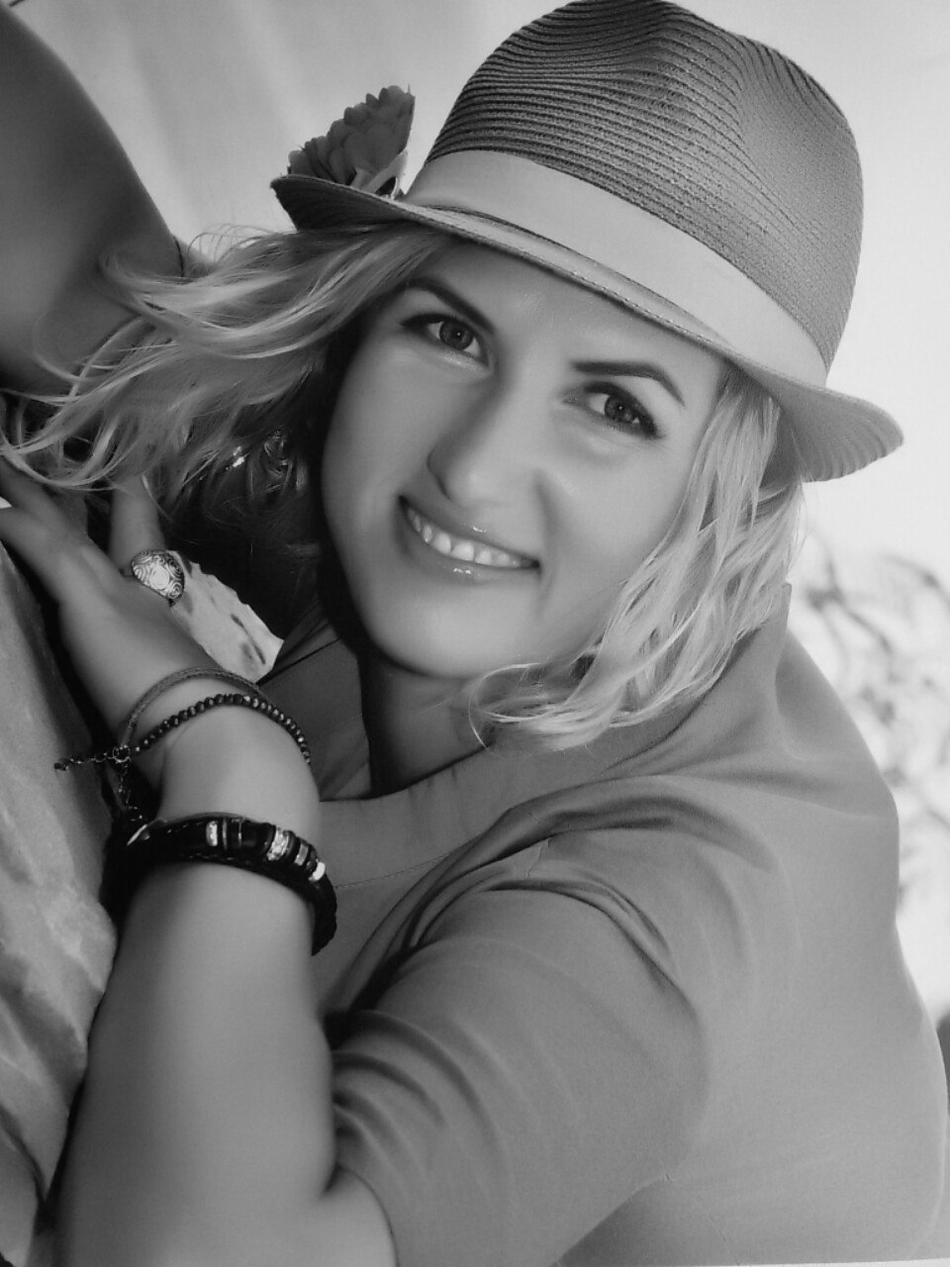
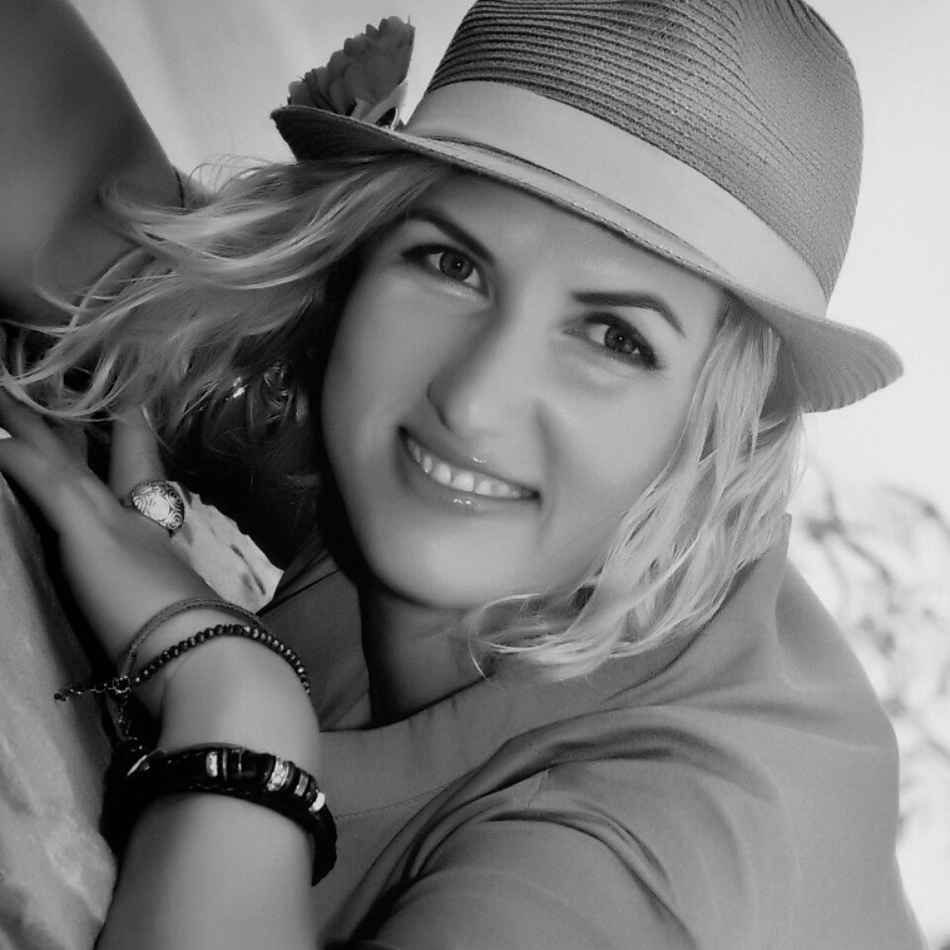
Фотки и стилизация отзывов

diff --git a/wp-content/themes/zernafest/css/main.css b/wp-content/themes/zernafest/css/main.css
@@ -3600,8 +3600,8 @@ p {
 }
 
 .rewiews__img {
-  width: 100%;
-  height: 550px;
+  width: 45vw;
+  height: 45vw;
   overflow: hidden;
   border-radius: 5px; 
 }
@@ -3612,8 +3612,8 @@ p {
 }
 
 .rewiews__big-img {
-  width: 100%;
-  height: 550px;
+  width: 45vw;
+  height: 45vw;
   -o-object-fit: cover;
   object-fit: cover; 
 }
@@ -3650,7 +3650,7 @@ p {
 }
 
 .reviews__slide {
-  height: 70px;
+  /*height: 70px;*/
   width: 18%;
   margin: 20px 5px;
   overflow: hidden;

diff --git a/wp-content/themes/zernafest/index.php b/wp-content/themes/zernafest/index.php
@@ -1086,12 +1086,12 @@
   </div>
   <div class="reviews__block">
     <div class="reviews__img-block">
-      <div class="rewiews__img"><img class="rewiews__big-img" alt="большой слайд" src="<?php echo get_template_directory_uri(); ?>/img/rewiews/review_3.jpeg">
+      <div class="rewiews__img"><img class="rewiews__big-img" alt="большой слайд" src="<?php echo get_template_directory_uri(); ?>/img/rewiews/review_3.jpg">
         <div class="rewiews__arrow-left"></div>
         <div class="rewiews__arrow-right"></div>
       </div>
       <div class="reviews__slider">
-        <div class="reviews__slide"><img class="reviews__slide-img" alt="" src="<?php echo get_template_directory_uri(); ?>/img/rewiews/review_3.jpeg">
+        <div class="reviews__slide"><img class="reviews__slide-img" alt="" src="<?php echo get_template_directory_uri(); ?>/img/rewiews/review_3.jpg">
           <h3 class="reviews__slide-name">Андрей и Екатерина Векшины</h3>
           <div class="reviews__slide-position">г. Горячий Ключ</div>
           <div class="reviews__slide-comment">Фестиваль гуманной педагогики отличается от всего, что мы видели и где побывали раньше. За 5 дней мы наполнились детским смехом, юношеской рассудительностью и родительской любовью. Удивительно было наблюдать как размышляют и действуют ребята в непринужденной атмосфере доверия, которая царит на фестивале. Пожалуй, самым любимым действием для нас были открытые встречи, на которых дети со сцены рассказывали взрослым о своих переживаниях и о том как они видят жизнь. Огромная благодарность учителям и педагогам, которые делятся своей мудростью и любовью к детям на протяжении фестиваля. Мы зарядились на весь год светлыми эмоциями и вдохновением. С нетерпением ждём новой встречи с уже такими родными участниками и организаторами фестиваля.</div>
@@ -1101,22 +1101,22 @@
           <div class="reviews__slide-position">г. Минск</div>
           <div class="reviews__slide-comment">Фестиваль многому научил меня! Помог взглянуть на привычные вещи новыми глазами. Рассказывая о воспитании детей, лекторы помогли мне лучше понять себя и то, какими красивыми и созидательными могут быть отношения с детьми и также со взрослыми. Лекторы фестиваля очень щедрые люди. И есть ощущение, что просто находясь рядом с ними, становишься лучше. Наполнение фестиваля и его атмосфера - это хорошая почва для раскрытия, познания, роста гармоничной личности. Желаю всем поучаствовать в этом Празднике!</div>
         </div>
-        <div class="reviews__slide"><img class="reviews__slide-img" alt="" src="<?php echo get_template_directory_uri(); ?>/img/rewiews/review_5.jpeg">
+        <div class="reviews__slide"><img class="reviews__slide-img" alt="" src="<?php echo get_template_directory_uri(); ?>/img/rewiews/review_5.jpg">
           <h3 class="reviews__slide-name">Настя Краславская</h3>
           <div class="reviews__slide-position">г. Ростов-на-Дону</div>
           <div class="reviews__slide-comment">На осенних каникулах я была на фестивале в Подмосковье. Он был просто необыкновенный! Большая благодарность всем организаторам и почётным гостям!  Это четвертый фестиваль гуманной педагогики, который носит название "Фейерверк уроков жизни".И оно полностью соответствует фестивалю! У меня здесь было много важных реализаций.  На фестивале  были замечательные  учителя - Шалва Амонашвили, Паата Амонашвили, Марина Таргакова, Олег Гадецкий, Сергей Аваков со своей семьёй, Алексей Бабаянц, Игорь Киршин, Рами Блект, мать более 1050 детей - матушка Синдутай и другие невероятные  личности. И самое удивительное - то, что каждый  может с ними открыто общаться! Здесь я познакомилась с детским, молодёжным объединением ,,Молодая гвардия". Они очень искренние, радостные и классные ребята! Когда видишь их - на лице появляется улыбка, появляется радость, которой хочется делиться со всеми. Дорогие Гатам, Айдар, Максим, Клим, Лера, Юля, Лиза, Ангелина, Аня, Мари спасибо вам большое! Теперь у меня есть ещё большее вдохновение и радость каждому дню.</div>
         </div>
-        <div class="reviews__slide"><img class="reviews__slide-img" alt="" src="<?php echo get_template_directory_uri(); ?>/img/rewiews/review_21.png">
+        <div class="reviews__slide"><img class="reviews__slide-img" alt="" src="<?php echo get_template_directory_uri(); ?>/img/rewiews/review_21.jpg">
           <h3 class="reviews__slide-name">Артем Мельник</h3>
           <div class="reviews__slide-position"> </div>
           <div class="reviews__slide-comment">Фест был веселый, хотя я ни с кем не общался почти, классно проводили время вместе, были интересные лекции. Получил много полезного, как на лекциях, так и в свободное время. Особенно хочется отметить:Сабину, Данила, Артемку, Бориса. Спасибо за эти дни!!! Советую всем приехать на этот фест еще раз в след. году, думаю будет еще круче... Мб приглашу друзей!! Всем спасибо!!</div>
         </div>
-        <div class="reviews__slide"><img class="reviews__slide-img" alt="" src="<?php echo get_template_directory_uri(); ?>/img/rewiews/review_1.jpeg">
+        <div class="reviews__slide"><img class="reviews__slide-img" alt="" src="<?php echo get_template_directory_uri(); ?>/img/rewiews/review_1.jpg">
           <h3 class="reviews__slide-name">Наталья и Константин Валеевы</h3>
           <div class="reviews__slide-position">г. Кременная</div>
           <div class="reviews__slide-comment">Мы с семьей были на фестивале несколько раз, и это очень сильно повлияло на нашу жизнь! Я чувствовала, что это именно то место и те процессы, в которых я хотела бы находиться. И так много позитивной, творческой энергии! Знаний, поражающих своей глубиной! Добрых лиц добрых людей! Своих внутренних открытий! И ДЕТИ, которые счастливы!!! Это чудесно!!! Я обязательно постараюсь приехать и в этом году на фестиваль.</div>
         </div>
-        <div class="reviews__slide"><img class="reviews__slide-img" alt="" src="<?php echo get_template_directory_uri(); ?>/img/rewiews/review_4.jpeg">
+        <div class="reviews__slide"><img class="reviews__slide-img" alt="" src="<?php echo get_template_directory_uri(); ?>/img/rewiews/review_4.jpg">
           <h3 class="reviews__slide-name">Владимир и Наталья Морозовы</h3>
           <div class="reviews__slide-position">г. Минск</div>
           <div class="reviews__slide-comment">Фестиваль гуманной педагогики - это удивительное место, наполненное знаниями,  радостью и друзьями. Уже на протяжении нескольких лет мы приезжаем на фестиваль и чувствуем, что наши сердца меняются. Соприкасаясь с Учителями, мастерами и лекторами фестиваля мы получаем большой практический опыт, который сразу влияет на нас. В прошлом году фестиваль помог нам остановиться и увидеть себя, как родителей со стороны. А также по-настоящему увидеть нашего сына. Однажды вечером, после лекции, уложив сына спать, мы лежали рядом с ним, смотрели на него сладкого, спящего, и задали себе вопросы: «А что он скажет о своем детстве, когда вырастет? Скажет ли он, что был счастлив? Достаточно ли ему было нашего внимания или он не видел нас, пока мы были заняты «очень важными» делами?». И благодаря всем Учителям на фестивале, мы поняли, что нельзя разделять «нас или наше дело» и «ребенка», а быть вместе в этом удивительном процессе жизни. И нужно обязательно включать в этот процесс ребенка, наполняя жизнь семьи радостью, простыми смешными моментами, сокровенными разговорами, которые запомнит сердце ребенка, семейными прогулками к реке, добрыми подарками, встречей гостей, неожиданными сладостями, совместной учебой, а также верой в Добро и Свет. Спасибо Фестивалю за это глубокое осознание, которое делает нашу семью счастливее.</div>
@@ -1126,12 +1126,12 @@
           <div class="reviews__slide-position"> </div>
           <div class="reviews__slide-comment">Все фестивали, посвященные гуманной педагогике, принципиальным проводником которых является Шалва Александрович Амонашвили, представляют собой удивительный сказочный мир. Эти события собирают не только педагогов со всей России и многих других стран, но и людей, неравнодушных к современному состоянию педагогики. В выступлениях самого Ш. А. Амонашвили, Марины Таргаковой, Марины Шишовой и многих других педагогов-экспертов отражены потенциальные возможности высококачественного обучения и воспитания подрастающего поколения, основанного на гуманно-личностном подходе. Мы с супругой являемся педагогами-пенсионерами, проработали в школе более 30 лет. С большим удовольствием мы посещаем этот фестиваль и всегда обогащаемся новыми знания, новым опытом и большим вдохновением, способствующим воспитанию наших внуков. Мы ратуем за то, чтобы такие программы стали постоянно действующим фактором педагогической жизни нашей страны. </div>
         </div>
-        <div class="reviews__slide"><img class="reviews__slide-img" alt="" src="<?php echo get_template_directory_uri(); ?>/img/rewiews/review_22.png">
+        <div class="reviews__slide"><img class="reviews__slide-img" alt="" src="<?php echo get_template_directory_uri(); ?>/img/rewiews/review_22.jpg">
           <h3 class="reviews__slide-name">Александр Усанин</h3>
           <div class="reviews__slide-position">г. Москва</div>
           <div class="reviews__slide-comment">В детстве человек получает первые и наиболее важные представления о целях и ценностях жизни, о отношениях между людьми, что формирует его внутренний мир, его личные смыслы и то, как он будет относиться к другим, какой будет вся его жизнь. Счастливы те дети, которым посчастливилось увидеть примеры возвышенной жизни и уважительное отношение к себе как индивидуальной, пусть даже пока ещё маленькой, но всё же уникальной, потенциально способной изменить к лучшему весь этот мир, личности. То, каким  будет будущее этой планеты, наше ближайшее будущее - зависит от того, кто, как, на каких ориентирах и ценностях воспитывает наших детей. Поэтому педагог - тот, кто программирует будущее этой планеты. Поэтому этот фестиваль очень важен: на нём те, кто хотят повлиять на жизни детей делятся важным и уникальным педагогическим опытом: как это очень тактично и бережно делать. Такой Фестиваль - это забота о людях, которые помогают детям, как нежному прекрасному бутону раскрыться в лучах их любви, чтобы цвести и принести сладкий плод в виде счастливой и чистой возвышенной жизни.</div>
         </div>
-        <div class="reviews__slide"><img class="reviews__slide-img" alt="" src="<?php echo get_template_directory_uri(); ?>/img/rewiews/review_6.jpeg">
+        <div class="reviews__slide"><img class="reviews__slide-img" alt="" src="<?php echo get_template_directory_uri(); ?>/img/rewiews/review_6.jpg">
           <h3 class="reviews__slide-name">Андрей и Виктория Подкользины</h3>
           <div class="reviews__slide-position">г. Москва</div>
           <div class="reviews__slide-comment">Так здорово, что есть Фестиваль, который знакомит с увлекательным и разнообразным миром педагогики! Время Фестиваля - это время, которое зажигает сердца и вдохновляет на новые свершения каждого, попавшего в атмосферу синтеза любви и знаний!</div>
@@ -1141,27 +1141,27 @@
           <div class="reviews__slide-position">Германия</div>
           <div class="reviews__slide-comment">Фестиваль гуманной педагогики - это опыт, который невозможно передать словами, каждый человек должен сам прочувствовать атмосферу Города Солнца. Город Солнца - это не выдумка, это не утопическое представление, это совместное настроение, в котором каждый может принять участие. Опыт фестиваля удивителен тем, что находясь в этом благостном настроении, находясь в общении с выдающимися педагогами современности, начинают открываться сердца. Меняются взгляды на людей, на родных, близких, меняется взгляд на мир. Для меня, как обычного подростка, по новому открылись родители (возможно, они не такие ужасные, как кажутся в таком возрасте). Фестиваль стал для меня возможностью познакомиться с единомышленниками, с ровесниками, почувствовать настоящую дружбу, возможностью провести время с семьей, возможностью пообщаться с учителями, ведь каждая проведенная с ними секунда на вес золота, и запомниться на всю жизнь.</div>
         </div>
-        <div class="reviews__slide"><img class="reviews__slide-img" alt="" src="<?php echo get_template_directory_uri(); ?>/img/rewiews/review_7.jpeg">
+        <div class="reviews__slide"><img class="reviews__slide-img" alt="" src="<?php echo get_template_directory_uri(); ?>/img/rewiews/review_7.jpg">
           <h3 class="reviews__slide-name">Валерия</h3>
           <div class="reviews__slide-position">г Омск</div>
           <div class="reviews__slide-comment">Для меня, как для подростка, фестиваль стал незабываемым путешествием в настоящий Город Солнца, где я повстречала друзей, даже поучаствовала в организации некоторых мероприятий вместе с другими ребятами, а главное - встретилась с мудрыми, счастливыми взрослыми. Только ради того, чтобы увидеть Шалву Александровича, встретить его любящий и искрящийся светом взгляд,  познакомиться со многими педагогами и подружиться с ними, стоит ехать на фестиваль! Стоит ехать на фестиваль ради того, чтобы научиться никогда не стареть и, как ребёнок, верить в чудеса, удивляясь каждому мгновению жизни!</div>
         </div>
-        <div class="reviews__slide"><img class="reviews__slide-img" alt="" src="<?php echo get_template_directory_uri(); ?>/img/rewiews/review_9.jpeg">
+        <div class="reviews__slide"><img class="reviews__slide-img" alt="" src="<?php echo get_template_directory_uri(); ?>/img/rewiews/review_9.jpg">
           <h3 class="reviews__slide-name">Ангелина Денисова</h3>
           <div class="reviews__slide-position">г. Алматы</div>
           <div class="reviews__slide-comment">Фестиваль - удивительно путешествие в Город Солнца. Я окунулась в небывалую атмосферу счастья. Фестиваль - это уникальнейшая возможность встретиться с настоящими Учителями. Они совсем не скучные, а наоборот. Невозможно было расстаться с ними без слез. Но я увезла фестиваль в своём сердце, где он надежно поселился. Фестиваль - это просто страна детства, где даже я, не такой уж и взрослый человек, научилась заново изумляться, удивляться, поражаться! В общем, друзья, не теряйте ни секунды, спешите на фестиваль!!</div>
         </div>
-        <div class="reviews__slide"><img class="reviews__slide-img" alt="" src="<?php echo get_template_directory_uri(); ?>/img/rewiews/review_16.jpeg">
+        <div class="reviews__slide"><img class="reviews__slide-img" alt="" src="<?php echo get_template_directory_uri(); ?>/img/rewiews/review_16.jpg">
           <h3 class="reviews__slide-name">Лиза Денисова</h3>
           <div class="reviews__slide-position">г. Алматы</div>
           <div class="reviews__slide-comment">Фестиваль гуманной педагогики стал для меня очень особенным событием. Абсолютно каждый день, проведенный там, даёт возможность научиться проживать день, как одну жизнь. Атмосфера фестиваля пропитана любовью и желанием людей помочь, будто бы все, попав туда, становятся одной семьей, где каждый житель города Солнца важен и нужен. Король и Министры города Солнца - это учителя, которые помогают открывать новые и прекрасные сундуки знаний гуманной педагогики, они помогают нам самим измениться в лучшую сторону и узнать что-то новое. Попав туда однажды, не захочется покидать этот изумительный город, где каждый день наполнен любовью, доверием и искренностью людей.</div>
         </div>
-        <div class="reviews__slide"><img class="reviews__slide-img" alt="" src="<?php echo get_template_directory_uri(); ?>/img/rewiews/review_2.jpeg">
+        <div class="reviews__slide"><img class="reviews__slide-img" alt="" src="<?php echo get_template_directory_uri(); ?>/img/rewiews/review_2.jpg">
           <h3 class="reviews__slide-name">Вероника Гаркуша</h3>
           <div class="reviews__slide-position">Украина</div>
           <div class="reviews__slide-comment">Я была на фестивале несколько раз, и всегда попадала в чудесную атмосферу сотрудничества взрослых с детьми. Получила полезные знания и познакомилась с замечательными людьми, во время каждого фестиваля открывая для себя что-то новое!!!</div>
         </div>
-        <div class="reviews__slide"><img class="reviews__slide-img" alt="" src="<?php echo get_template_directory_uri(); ?>/img/rewiews/review_17.jpeg">
+        <div class="reviews__slide"><img class="reviews__slide-img" alt="" src="<?php echo get_template_directory_uri(); ?>/img/rewiews/review_17.jpg">
           <h3 class="reviews__slide-name">Милана</h3>
           <div class="reviews__slide-position">г. Алматы</div>
           <div class="reviews__slide-comment">Была на фестивале с семьёй в 2015 году. Первое ощущение, когда приехали на фестиваль, как-будто попали в добрую сказку). Нас очень радушно встречали, для детей была организована специальная зона, где они могли играть пока родители проходили процедуру регистрации, а ещё детям дарили бумажных зайчиков с конфеткой внутри, от чего те были очень счастливы! Больше всего на фестивале запомнилась атмосфера семьи и внимательности к каждому, соприкосновение с учителями, которые щедро делились своими знаниями и проводили потрясающие лекции и практические занятия. Практические занятия это вообще отдельная история! В реальном формате видишь как рождается гуманная педагогика и сам на время становишься ребенком! Особая благодарность детскому департаменту за организацию очень классной программы! Сын с удовольствием ходил на нее, пока мы были на лекции. Отличный фестиваль, где есть возможность познакомиться с единомышленниками, пообщаться с учителями, напитаться знаниями и вдохновением!</div>

diff --git a/wp-content/themes/zernafest/header.php b/wp-content/themes/zernafest/header.php
@@ -13,10 +13,10 @@
   <meta property="og:image:width" content="1200"/>
   <meta property="og:image:height" content="630"/>
 
-<link rel='stylesheet' href='http://zernafest.ru/wp-content/themes/zernafest/plugins/slick/slick.css?v<?php echo date(U);?>' type='text/css' media='all' />
-<link rel='stylesheet' href='http://zernafest.ru/wp-content/themes/zernafest/plugins/modal-video/modal-video.min.css?v<?php echo date(U);?>' type='text/css' media='all' />
-<link rel='stylesheet' href='http://zernafest.ru/wp-content/themes/zernafest/css/main.css?v<?php echo date(U);?>' type='text/css' media='all' />
-<link rel='stylesheet' href='http://zernafest.ru/wp-content/themes/zernafest/style.css?v<?php echo date(U);?>' type='text/css' media='all' />
+  <link rel='stylesheet' href='<?php echo get_template_directory_uri(); ?>/plugins/slick/slick.css' type='text/css' media='all' />
+  <link rel='stylesheet' href='<?php echo get_template_directory_uri(); ?>/plugins/modal-video/modal-video.min.css' type='text/css' media='all' />
+  <link rel='stylesheet' href='<?php echo get_template_directory_uri(); ?>/css/main.css' type='text/css' media='all' />
+  <link rel='stylesheet' href='<?php echo get_template_directory_uri(); ?>/style.css' type='text/css' media='all' />
 
   <?php wp_head(); ?>
 
